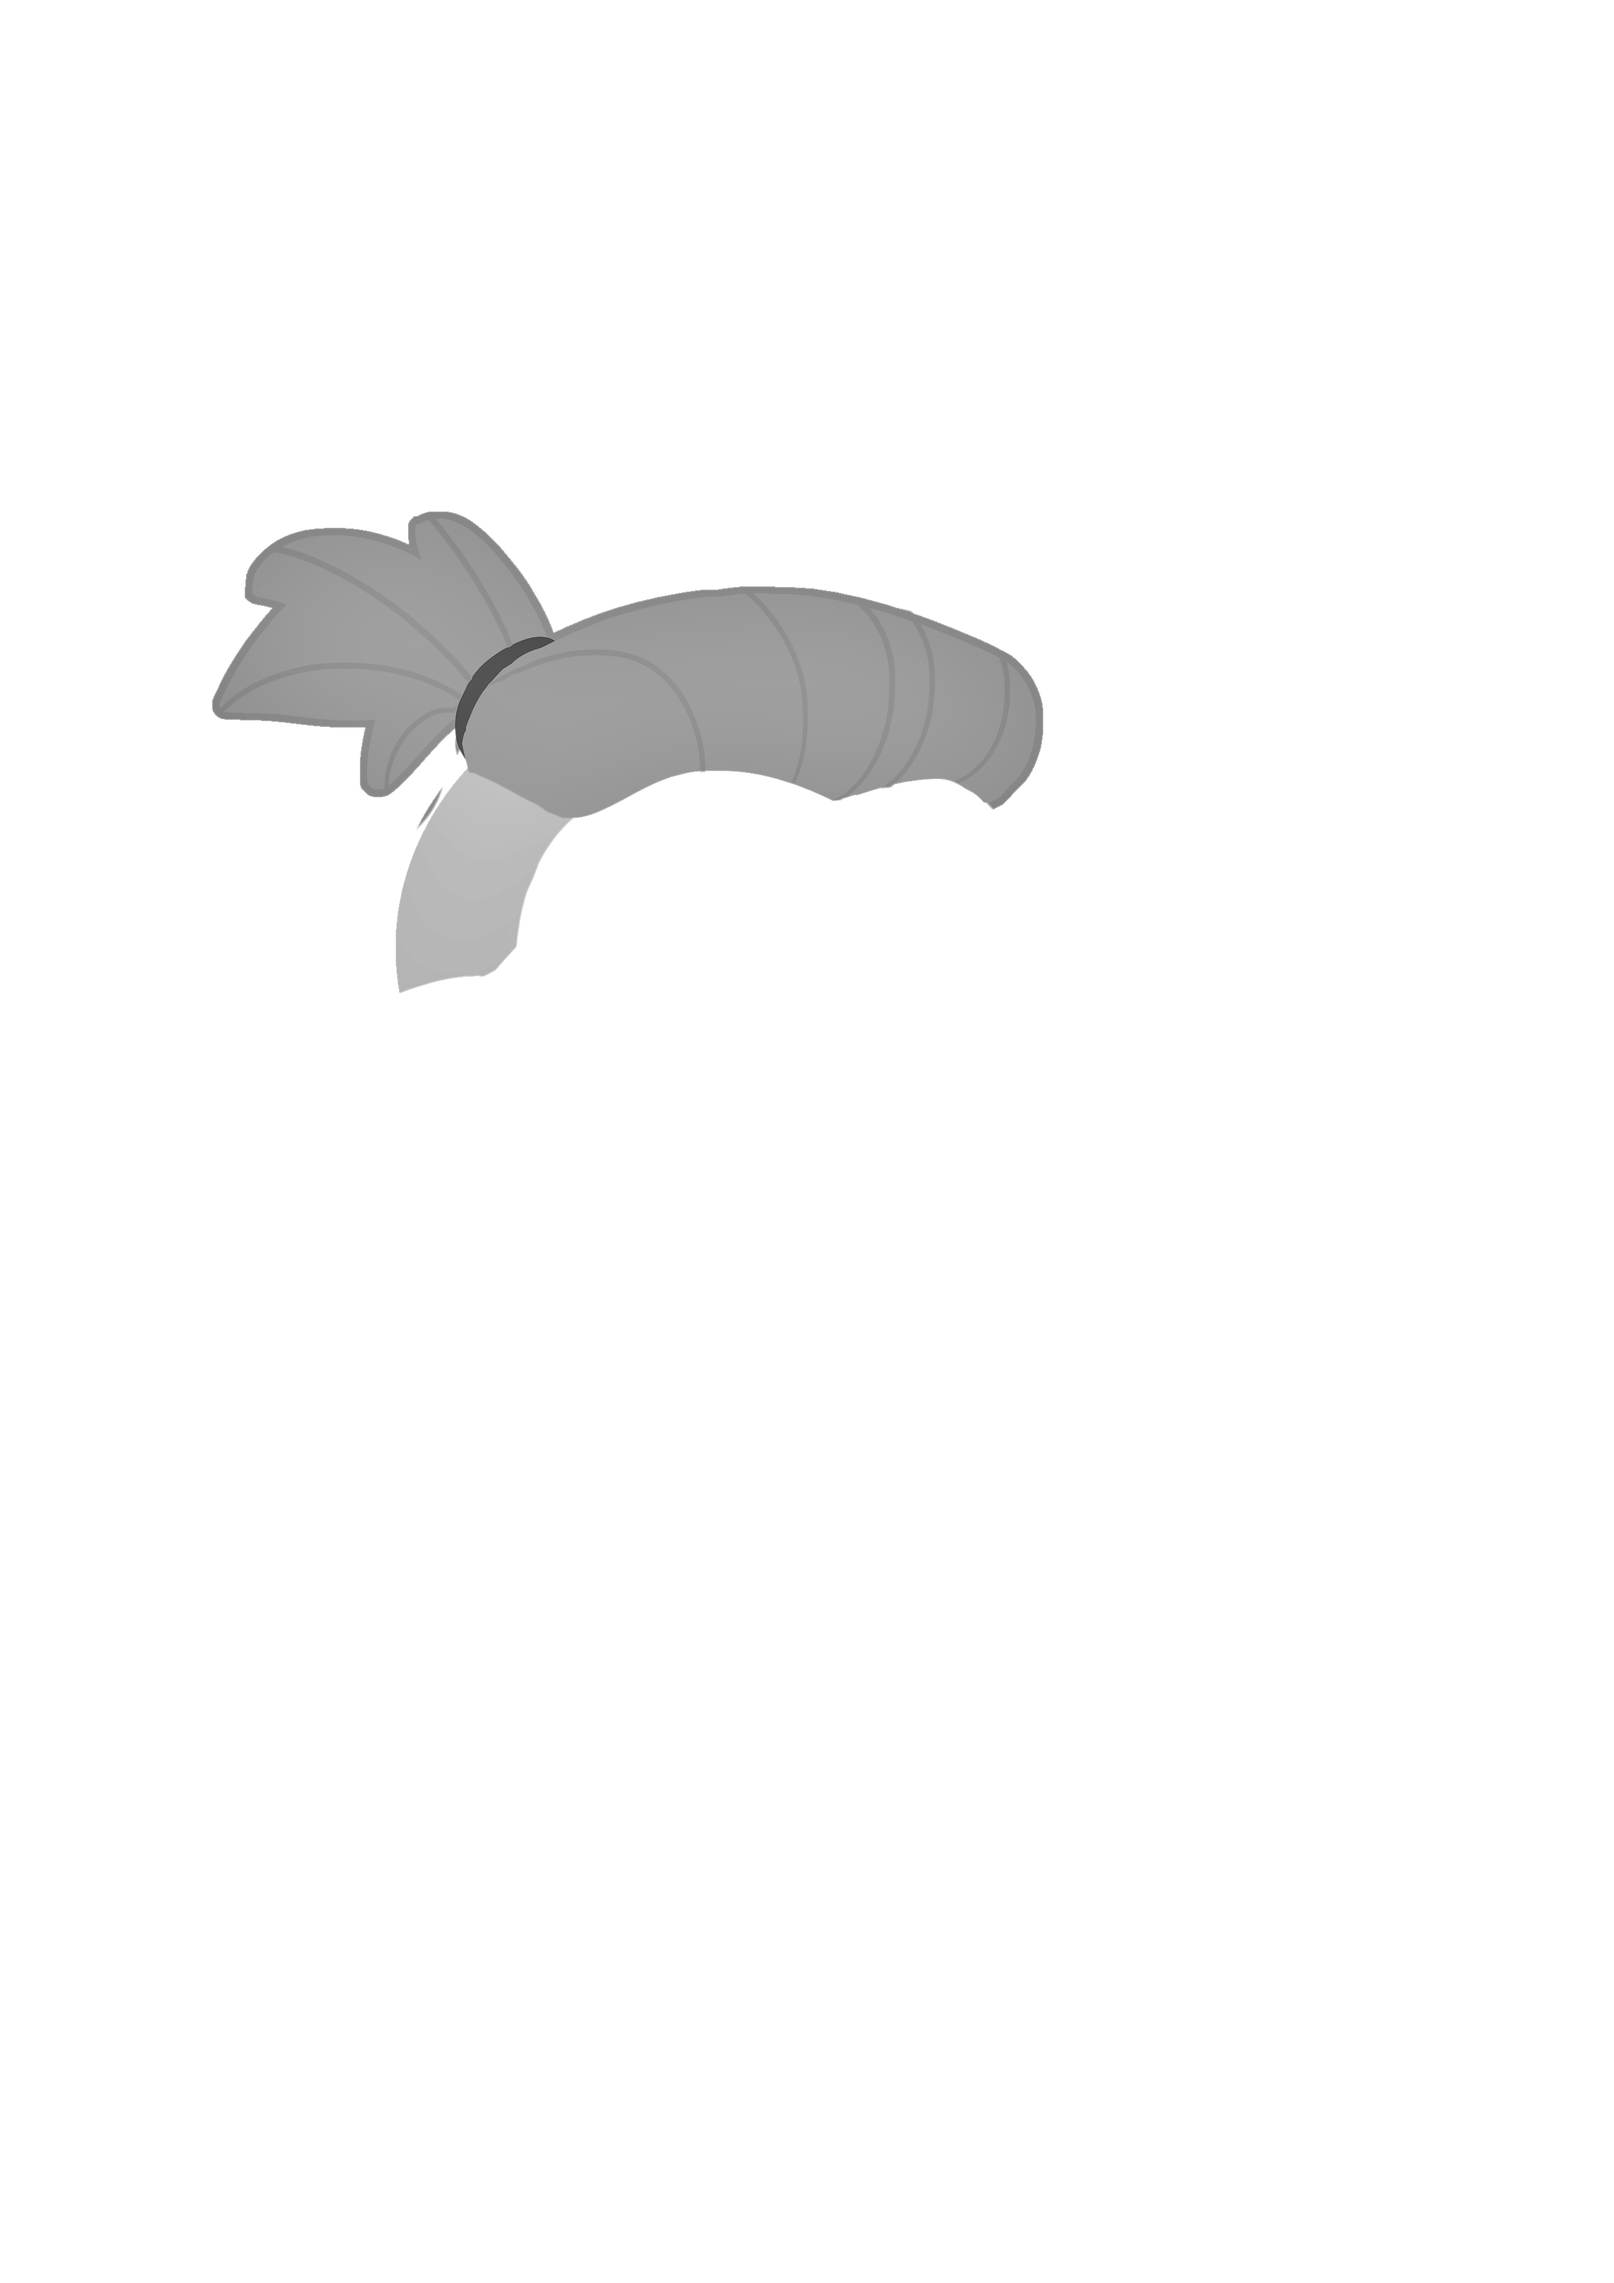
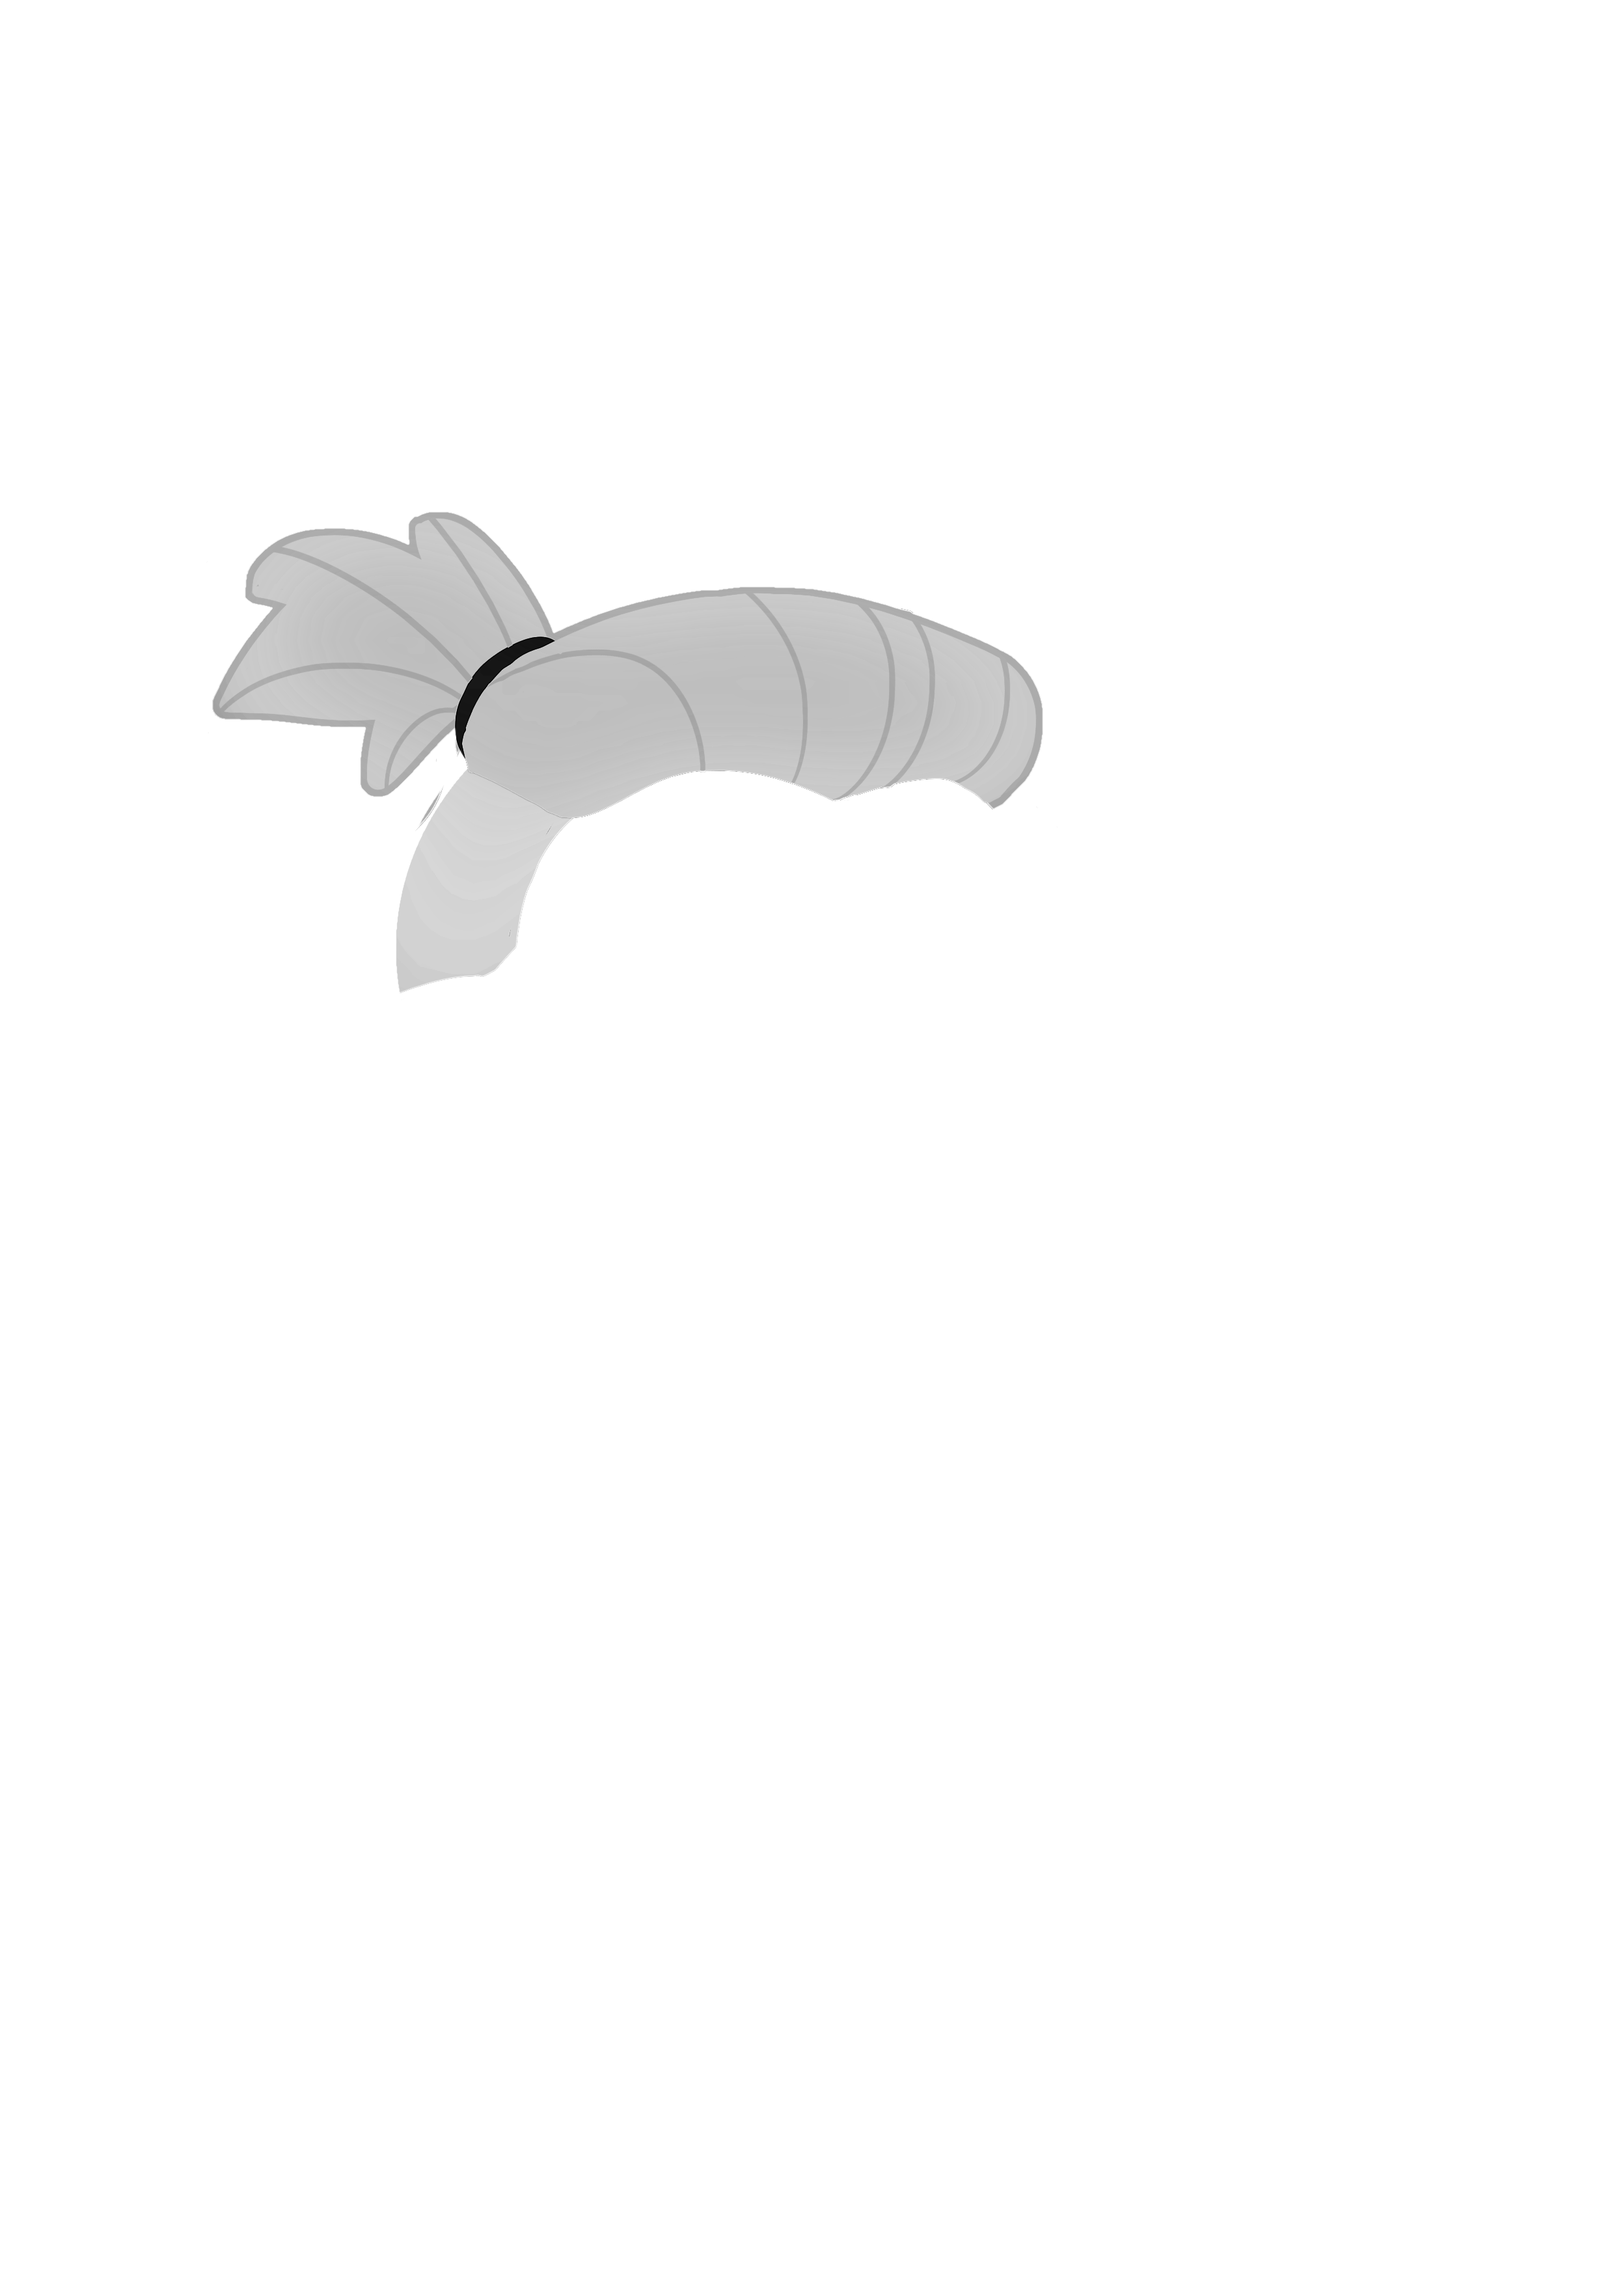
Pant color and hair adjustments

Changed region(s): [[0.1242, 0.2175, 0.652, 0.435]]

diff --git a/One Way Wellington/Assets/Models/Characters/Passenger.cs b/One Way Wellington/Assets/Models/Characters/Passenger.cs
@@ -94,7 +94,7 @@ public class Passenger : Character
         int hairStyle, Color hairColor, 
         int skin, int decal, 
         int shirtStyle, Color shirtColor, 
-        int pantStyle, Color pantColor, 
+        int pantStyle, float pantColor, 
         int shoeStyle, int shades)
     {
         this.name = name;
@@ -109,7 +109,7 @@ public class Passenger : Character
         this.shirtColor = shirtColor;
         this.shirtColor = shirtColor;
         this.pantStyle = pantStyle;
-        this.pantColor = pantColor;
+        this.pantColor = new Color(pantColor, pantColor, pantColor);
         this.shoeStyle = shoeStyle;
         this.shades = shades;
 
@@ -122,7 +122,7 @@ public class Passenger : Character
         spriteRenderer_Shirt.sprite = Resources.Load<Sprite>("Images/Characters/Passengers/Shirt/Shirt" + shirtStyle.ToString());
         spriteRenderer_Shirt.color = shirtColor;
         spriteRenderer_Pants.sprite = Resources.Load<Sprite>("Images/Characters/Passengers/Pants/Pants" + pantStyle.ToString());
-        spriteRenderer_Pants.color = pantColor;
+        spriteRenderer_Pants.color = this.pantColor;
         spriteRenderer_Shoes.sprite = Resources.Load<Sprite>("Images/Characters/Passengers/Shoes/Shoes" + shoeStyle.ToString());
         spriteRenderer_Shades.sprite = Resources.Load<Sprite>("Images/Characters/Passengers/Shades/Shades" + shades.ToString());
     }

diff --git a/One Way Wellington/Assets/Models/PotentialPassenger.cs b/One Way Wellington/Assets/Models/PotentialPassenger.cs
@@ -15,7 +15,7 @@ public class PotentialPassenger
     public Color hairColor;
     public int skin;
     public int pantStyle;
-    public Color pantColor;
+    public float pantColor;
     public int decal;
     public int shades;
     public int shirtStyle;
@@ -30,7 +30,6 @@ public class PotentialPassenger
         new Color(1,0.97f,0.78f),new Color(0.61f,0.58f,0.39f),new Color(),new Color(1,0.91f,0.78f),new Color(0.31f,0.27f,0.21f),
         new Color(1,1,1), new Color(0.87f, 0.87f, 0.87f), new Color(0.5f,0.5f,0.5f), new Color(0.14f, 0.14f, 0.14f), new Color(0, 0, 0)
     };
-    private List<Color> pantColors = new List<Color>() { Color.white };
     private List<Color> shirtColors = new List<Color>
     {
         new Color(0.26f,0.14f,0.60f), new Color(0.42f,0.30f,0.78f), new Color(0.16f,0.03f,0.54f), new Color(0.08f,0.01f,0.27f),
@@ -56,7 +55,7 @@ public class PotentialPassenger
         hairColor = hairColors[Random.Range(0, hairColors.Count)];
         skin = Random.Range(1, 7);
         pantStyle = Random.Range(1, 2);
-        pantColor = pantColors[Random.Range(0, pantColors.Count)];
+        pantColor = Random.Range(0.1f, 1f);
         decal = Random.Range(0, 6);
         shades = Random.Range(0, 8);
         shirtStyle = Random.Range(1, 1);

diff --git a/One Way Wellington/Assets/Models/User Interface/PassengerListing.cs b/One Way Wellington/Assets/Models/User Interface/PassengerListing.cs
@@ -43,7 +43,7 @@ public class PassengerListing : MonoBehaviour
         shirt.sprite = Resources.Load<Sprite>("Images/Characters/Passengers/Shirt/Shirt" + potentialPassenger.shirtStyle.ToString());
         shirt.color = potentialPassenger.shirtColor;
         pants.sprite = Resources.Load<Sprite>("Images/Characters/Passengers/Pants/Pants" + potentialPassenger.pantStyle.ToString());
-        pants.color = potentialPassenger.pantColor;
+        pants.color = new Color(potentialPassenger.pantColor, potentialPassenger.pantColor, potentialPassenger.pantColor);
         shoes.sprite = Resources.Load<Sprite>("Images/Characters/Passengers/Shoes/Shoes" + potentialPassenger.shoeStyle.ToString());
         shades.sprite = Resources.Load<Sprite>("Images/Characters/Passengers/Shades/Shades" + potentialPassenger.shades.ToString());
 
